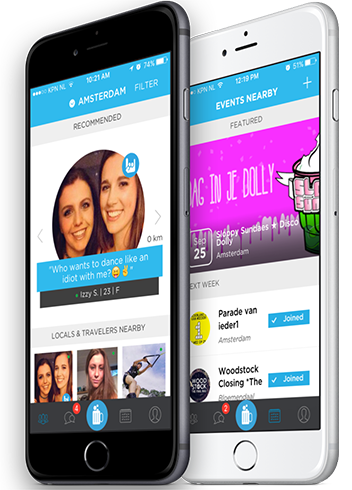
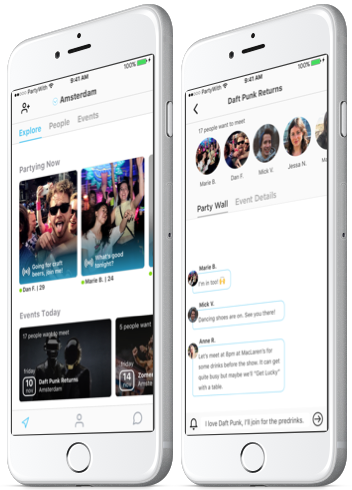
changed partywithalocal for partywith

diff --git a/team/index.html b/team/index.html
@@ -5,23 +5,23 @@
   <meta charset="UTF-8">
   <meta name="description" content="A free app that connects people that want to party.">
   <meta name="keywords" content="Party, Meet new people, Nightlife, Meetup, App, Amsterdam, New York, Sao Paulo, Local, bars, clubs">
-  <meta name="author" content="Party with a Local">
+  <meta name="author" content="PartyWith">
   <meta name="apple-itunes-app" content="app-id=562560874">
   <meta name="google-play-app" content="app-id=com.pwal">
   <meta name="msApplication-ID" content="App" />
   <meta name="msApplication-TileImage" content="../static/images/apple-touch-icon-72x72.png" />
   <meta name="viewport" content="width=device-width, initial-scale=1, maximum-scale=1">
-  <meta property="og:title" content="Party with a Local"/>
+  <meta property="og:title" content="PartyWith"/>
   <meta property="og:url" content="http://partywithalocal.com"/>
   <meta property="og:image" content="https://www.dropbox.com/s/xcgwz6uil8o3waw/iOS-Icon.png?dl=1"/>
-  <meta property="og:site_name" content="Party with A Local"/>
+  <meta property="og:site_name" content="PartyWith"/>
   <meta property="og:description"
   content="A free app that connects people that want to party."/>
 
 
 
   <!-- SITE TITLE -->
-  <title>Party with a Local</title>
+  <title>PartyWith</title>
 
   <!-- =========================
   FAV AND TOUCH ICONS
@@ -41,7 +41,7 @@
   <link rel="stylesheet" href="../static/assets/elegant-icons/style.css">
   <!-- <link rel="stylesheet" href="../static/assets/app-icons/styles.css">
 -->
-<link rel="stylesheet" href="../static/assets/font-awesome/css/font-awesome.css">
+<link href="https://maxcdn.bootstrapcdn.com/font-awesome/4.7.0/css/font-awesome.min.css" rel="stylesheet" integrity="sha384-wvfXpqpZZVQGK6TAh5PVlGOfQNHSoD2xbE+QkPxCAFlNEevoEH3Sl0sibVcOQVnN" crossorigin="anonymous"> 
 <!--[if lte IE 7]><script src="lte-ie7.js"></script><![endif]-->
 
 <!-- WEB FONTS -->
@@ -130,13 +130,13 @@ src="https://www.facebook.com/tr?id=1831325640466359&ev=PageView
 
           <div class="navbar-collapse collapse hidden-xs" id="pwal-navigation">
             <ul class="nav navbar-nav navbar-right main-navigation">
-              <li><a href="http://partywithalocal.com">Home</a></li>
-              <li><a href="http://partywithalocal.com/#about">About</a></li>
+              <li><a href="http://partywith.co">Home</a></li>
+              <li><a href="http://partywith.co/#about">About</a></li>
               <li><a href="#">Team</a></li>
               <li><a href="http://blog.partywithalocal.com" target="_blank">Blog</a></li>
               <li><a href="https://www.facebook.com/PartywithaLocal/events" target="_blank">Events</a></li>
-              <li><a href="http://partywithalocal.com/#download">Download</a></li>
-              <li><a href="http://partywithalocal.com/#contact">Contact</a></li>
+              <li><a href="http://partywith.co/#download">Download</a></li>
+              <li><a href="http://partywith.co/#contact">Contact</a></li>
               <li><a href="https://facebook.com/partywithalocal" target="_blank"><i class="fa fa-facebook"></i></a></li>
               <li><a href="https://instagram.com/partywithalocal" target="_blank"><i class="fa fa-instagram"></i></a></li>
               <!-- <li><div id="widget" class="localizationTool"></div>
@@ -199,7 +199,7 @@ src="https://www.facebook.com/tr?id=1831325640466359&ev=PageView
           <!-- SERVICE DESCRIPTION -->
 
           <p>
-            From Australia, traveled the world, and settled Amsterdam (for a girl). Our Founder loves  his family, discovering new places, ping pong and is passionate about building a truly global community with Party with a Local.
+            From Australia, traveled the world, and settled Amsterdam (for a girl). Our Founder loves  his family, discovering new places, ping pong and is passionate about building a truly global community with PartyWith.
           </p>
 
           <p class="social-links">
@@ -225,7 +225,7 @@ src="https://www.facebook.com/tr?id=1831325640466359&ev=PageView
           <!-- SERVICE DESCRIPTION -->
 
           <p>
-            Management consultant in NYC turned globetrotting electronic dance music aficionado. She counts on Party with a Local to encounter new dancing buddies during her travels to so her #1 goal is to make the app grow!
+            Management consultant in NYC turned globetrotting electronic dance music aficionado. She counts on PartyWith to encounter new dancing buddies during her travels to so her #1 goal is to make the app grow!
           </p>
 
           <p class="social-links">
@@ -301,7 +301,7 @@ src="https://www.facebook.com/tr?id=1831325640466359&ev=PageView
           <!-- SERVICE DESCRIPTION -->
 
           <p>
-            Based in the greenest city of Brazil and raised by Italians, Felipe is addicted to surf music, coding for mobile, travel and the Dutch “gezelligheid” atmosphere. He spends most of his time making sure that you get a great experience using the Party with a local app.
+            Based in the greenest city of Brazil and raised by Italians, Felipe is addicted to surf music, coding for mobile, travel and the Dutch “gezelligheid” atmosphere. He spends most of his time making sure that you get a great experience using the PartyWith app.
           </p>
 
           <p class="social-links">
@@ -321,7 +321,7 @@ src="https://www.facebook.com/tr?id=1831325640466359&ev=PageView
         <div class="colored-line">
         </div>
         <div class="section-description">
-          Those who support and advise Party with a Local.
+          Those who support and advise PartyWith.
         </div>
         <div class="colored-line">
         </div>
@@ -411,7 +411,7 @@ src="https://www.facebook.com/tr?id=1831325640466359&ev=PageView
           <!-- SERVICE DESCRIPTION -->
 
           <p>
-            EMEA Security Engineering Lead at Uber, Burner 13 years straight, recent mover to Amsterdam and avid user of Party with a Local.
+            EMEA Security Engineering Lead at Uber, Burner 13 years straight, recent mover to Amsterdam and avid user of PartyWith.
           </p>
 
           <p class="social-links">
@@ -453,7 +453,7 @@ src="https://www.facebook.com/tr?id=1831325640466359&ev=PageView
 
   <!-- COPYRIGHT TEXT -->
   <p class="copyright">
-    ©2017 Party with a Local, All Rights Reserved |
+    ©2017 PartyWith, All Rights Reserved |
 
     <!-- Button trigger modal -->
     <button type="button" class="btn btn-primary btn-xs" data-toggle="modal" data-target="#terms">
@@ -692,10 +692,7 @@ src="https://www.facebook.com/tr?id=1831325640466359&ev=PageView
 
                                 <script src="../static/js/bootstrap.min.js"></script>
                                 <script src="../static/js/wow.min.js"></script>
-                                <script type="text/javascript" src="../static/js/instafeed.js"></script>
                                 <script type="text/javascript" src="../static/slick/slick.min.js"></script>
-                                <script type="text/javascript" src="../static/js/feed.js"></script>
-                                <script src="../static/js/custom-team.js"></script>
 
                                 <script>
                                   (function(i,s,o,g,r,a,m){i['GoogleAnalyticsObject']=r;i[r]=i[r]||function(){

diff --git a/index.html b/index.html
@@ -23,7 +23,7 @@
   <meta name=“p:domain_verify” content=“778e7dd7b082c2e280d14898ec32d46e”/>
 
   <!-- SITE TITLE -->
-  <title>Party with a Local | App Connecting People Who Want to Party</title>
+  <title>PartyWith | App Connecting People Who Want to Party</title>
 
   <!-- =========================
   FAV AND TOUCH ICONS
@@ -126,13 +126,13 @@
               <span class="icon-bar"></span>
             </button>
 
-            <a href="#"><img src="static/images/smalllogo.png" alt="Party with a Local logo" class="logoSticky"></a>
+            <a href="http://partywith.co"><img src="static/images/smalllogo.png" alt="PartyWith a Local logo" class="logoSticky"></a>
 
           </div>
 
           <div class="navbar-collapse collapse" id="pwal-navigation">
             <ul class="nav navbar-nav navbar-right main-navigation">
-              <li><a href="#">Home</a></li>
+              <li><a href="http://partywith.co">Home</a></li>
               <li><a href="#about">About</a></li>
               <li><a href="/team">Team</a></li>
               <li class="tml-5"><a href="http://blog.partywithalocal.com" target="_blank">Blog</a></li>
@@ -155,11 +155,11 @@
             <div class="only-logo">
               <div class="navbar">
                 <div class="navbar-header">
-                  <img src="static/images/biglogo.png" alt="Party with a Local Logo" class="logoImage">
+                  <img src="static/images/partywithco.png" alt="PartyWith a Local Logo" class="logoImage">
                 </div>
               </div>
             </div>
-            <h1 class="intro tml-1" id="subtitle">Party with a Local is a free app that connects people who love to party.</h1>
+            <h1 class="intro tml-1" id="subtitle">PartyWith is a free app that connects people who love to party.</h1>
             <!--          <h3><strong>Download the app and discover tonight.</strong></h3> -->
 
             <br />
@@ -177,7 +177,7 @@
         <div class="col-md-6 col-sm-6 hidden-xs">
           <div class="phone-image">
             <!-- <img src="static/images/2-iphone-right.png" class="img-responsive" alt=""> -->
-            <img src="http://d2oith3fmv7q9i.cloudfront.net/hs.png" class="img-responsive" alt="">
+            <img src="static/images/hero-screenshots.png" class="img-responsive" alt="">
 
           </div>
 
@@ -289,7 +289,7 @@ FEATURES
         Whether it’s ‘cos you’re <strong>new to a city</strong>, <strong>traveling solo</strong>, or just got <strong>boring ass friends</strong>... we’ve all been there!
         <br />
         <br />
-        Party with a Local is committed to making sure you’ll never party alone again!
+        PartyWith is committed to making sure you’ll never party alone again!
 
       </div>
       <div class="colored-line">
@@ -352,12 +352,12 @@ COMMUNITY
     <div class="section-header wow fadeIn animated" data-wow-offset="10" data-wow-duration="1.5s">
 
       <!-- SECTION TITLE -->
-      <h2 class="dark-text">Who uses Party with a Local?</h2>
+      <h2 class="dark-text">Who uses PartyWith?</h2>
 
       <div class="colored-line">
       </div>
       <div class="section-description dark-text">
-        <span>Put simply, Party with a Local is for everyone and anyone who loves to party.</span>
+        <span>Put simply, PartyWith is for everyone and anyone who loves to party.</span>
       </div>
       <div class="colored-line">
       </div>
@@ -390,7 +390,7 @@ COMMUNITY
           </div>
           <div class="col-md-8">
             <p class="community-text">
-              Originally from Latvia, Linda is now known as the queen of Amsterdam nightlife. She uses the Party with a Local app all the time to meet both locals and travelers in the city, and probably has met more people through the app than the Party with a Local founder.
+              Originally from Latvia, Linda is now known as the queen of Amsterdam nightlife. She uses the PartyWith app all the time to meet both locals and travelers in the city, and probably has met more people through the app than the PartyWith founder.
             </p>
           </div>
         </div>
@@ -408,7 +408,7 @@ COMMUNITY
           </div>
           <div class="col-md-8">
             <p class="community-text">
-              Some people aspire to cycle across Europe, but not Adam. Instead, our intrepid Aussie ran from Barcelona to Amsterdam - the long way, via Munich. On his journey, he used the Party with a Local app to for another type of marathon… the partying kind.
+              Some people aspire to cycle across Europe, but not Adam. Instead, our intrepid Aussie ran from Barcelona to Amsterdam - the long way, via Munich. On his journey, he used the PartyWith app to for another type of marathon… the partying kind.
             </p>
           </div>
         </div>
@@ -425,7 +425,7 @@ COMMUNITY
 <div class="container-fluid visual">
   <div class="visual-overlay">
     <div>
-      <h2>Party with a Local has a community of over 150,000 party lovers in 150+ countries.<br /><a href="">Join the party today!</a></h2>
+      <h2>PartyWith has a community of over 150,000 party lovers in 150+ countries.<br /><a href="">Join the party today!</a></h2>
     </div>
   </div>
   <div class="col-md-12" style="background: url('http://d2oith3fmv7q9i.cloudfront.net/spread2.jpg'); background-size: cover; height: 300px;"></div>
@@ -520,7 +520,7 @@ TESTIMONIALS
           </div>
 
           <div class="message">
-            There are too many good times to remember - every Party with a Local meetup has ended up as a great party night for me!
+            There are too many good times to remember - every PartyWith meetup has ended up as a great party night for me!
           </div>
 
           <div class="white-line">
@@ -547,7 +547,7 @@ TESTIMONIALS
           </div>
 
           <div class="message">
-            This is what Party with a Local leads to: 9 people partying on a balcony in Bangkok! Thankyou for this great app!
+            This is what PartyWith leads to: 9 people partying on a balcony in Bangkok! Thankyou for this great app!
           </div>
 
           <div class="white-line">
@@ -788,7 +788,7 @@ FOOTER
 
                                             <!-- COPYRIGHT TEXT -->
                                             <p class="copyright">
-                                              ©2017 Party with a Local, All Rights Reserved |
+                                              ©2017 PartyWith a Local, All Rights Reserved |
 
                                               <!-- Button trigger modal -->
                                               <button type="button" class="btn btn-primary btn-xs" data-toggle="modal" data-target="#terms">

diff --git a/static/js/custom.js b/static/js/custom.js
@@ -372,18 +372,18 @@ setInterval('cycleImages()', 4500);
 === Custom Tomorrowland stuff   ====
 ==================================*/
 
-$(document).ready(function () {
-  if(window.location.href.indexOf("tml") > -1) {
-    document.querySelector(".tml-1").textContent = "Party with a Local is a free app that connects people who love to party - for Tomorrowland events near you";
-    document.querySelector(".tml-2").textContent = "The purpose of the app is exactly what it sounds like: to connect users for a night out...";
-    document.querySelector(".tml-3").textContent = "Want to go to Tomorrowland parties but lacking a killer party crew?";
-    document.querySelector(".tml-4").innerHTML = "From EDM heads to techno snobs…<br>everyone can join the party!";
+// $(document).ready(function () {
+//   if(window.location.href.indexOf("tml") > -1) {
+//     document.querySelector(".tml-1").textContent = "Party with a Local is a free app that connects people who love to party - for Tomorrowland events near you";
+//     document.querySelector(".tml-2").textContent = "The purpose of the app is exactly what it sounds like: to connect users for a night out...";
+//     document.querySelector(".tml-3").textContent = "Want to go to Tomorrowland parties but lacking a killer party crew?";
+//     document.querySelector(".tml-4").innerHTML = "From EDM heads to techno snobs…<br>everyone can join the party!";
 
-    // $('.tml-1').textContent = 'Party with a Local is a free app that connects people who love to party - for Tomorrowland events near you';
-    // $('.tml-2').textContent = 'The purpose of the app is exactly what it sounds like: to connect users for a night out...';
-    // $('.tml-3').textContent = 'Want to go to Tomorrowland parties but lacking a killer party crew?';
-    // $('.tml-4').innerHtml = 'From EDM heads to techno snobs…<br>everyone can join the party!';
-    $('.tml-5').hide();
-    $('.tml-6').hide();
-  }
-});
+//     // $('.tml-1').textContent = 'Party with a Local is a free app that connects people who love to party - for Tomorrowland events near you';
+//     // $('.tml-2').textContent = 'The purpose of the app is exactly what it sounds like: to connect users for a night out...';
+//     // $('.tml-3').textContent = 'Want to go to Tomorrowland parties but lacking a killer party crew?';
+//     // $('.tml-4').innerHtml = 'From EDM heads to techno snobs…<br>everyone can join the party!';
+//     $('.tml-5').hide();
+//     $('.tml-6').hide();
+//   }
+// });
